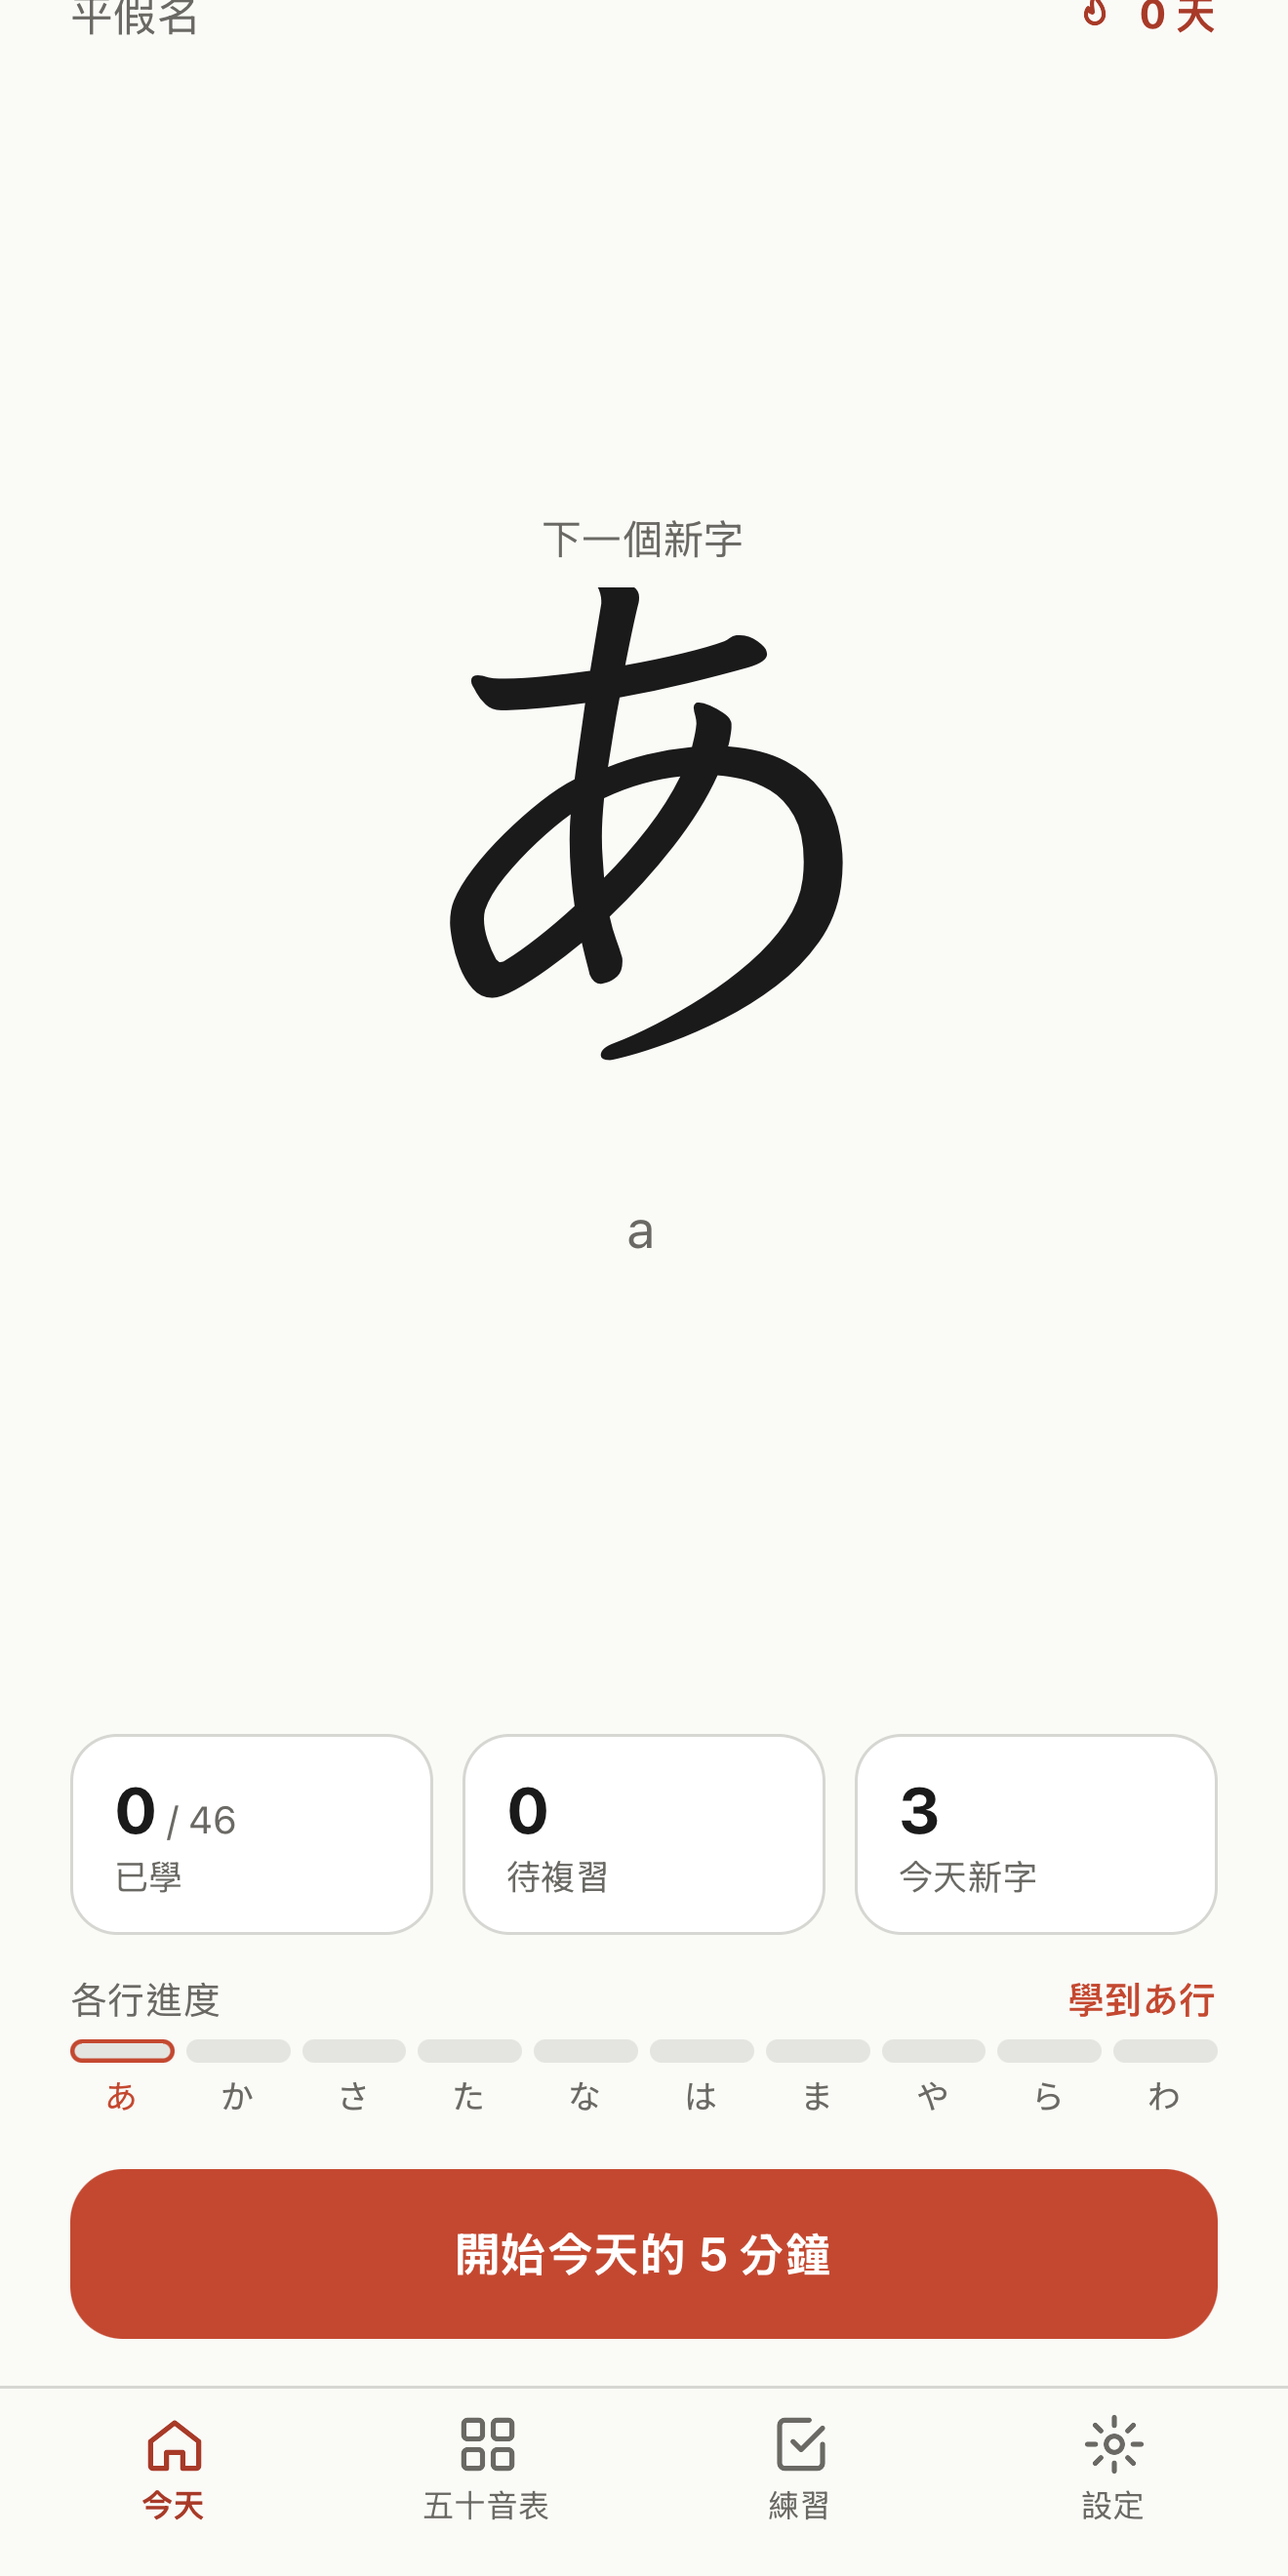
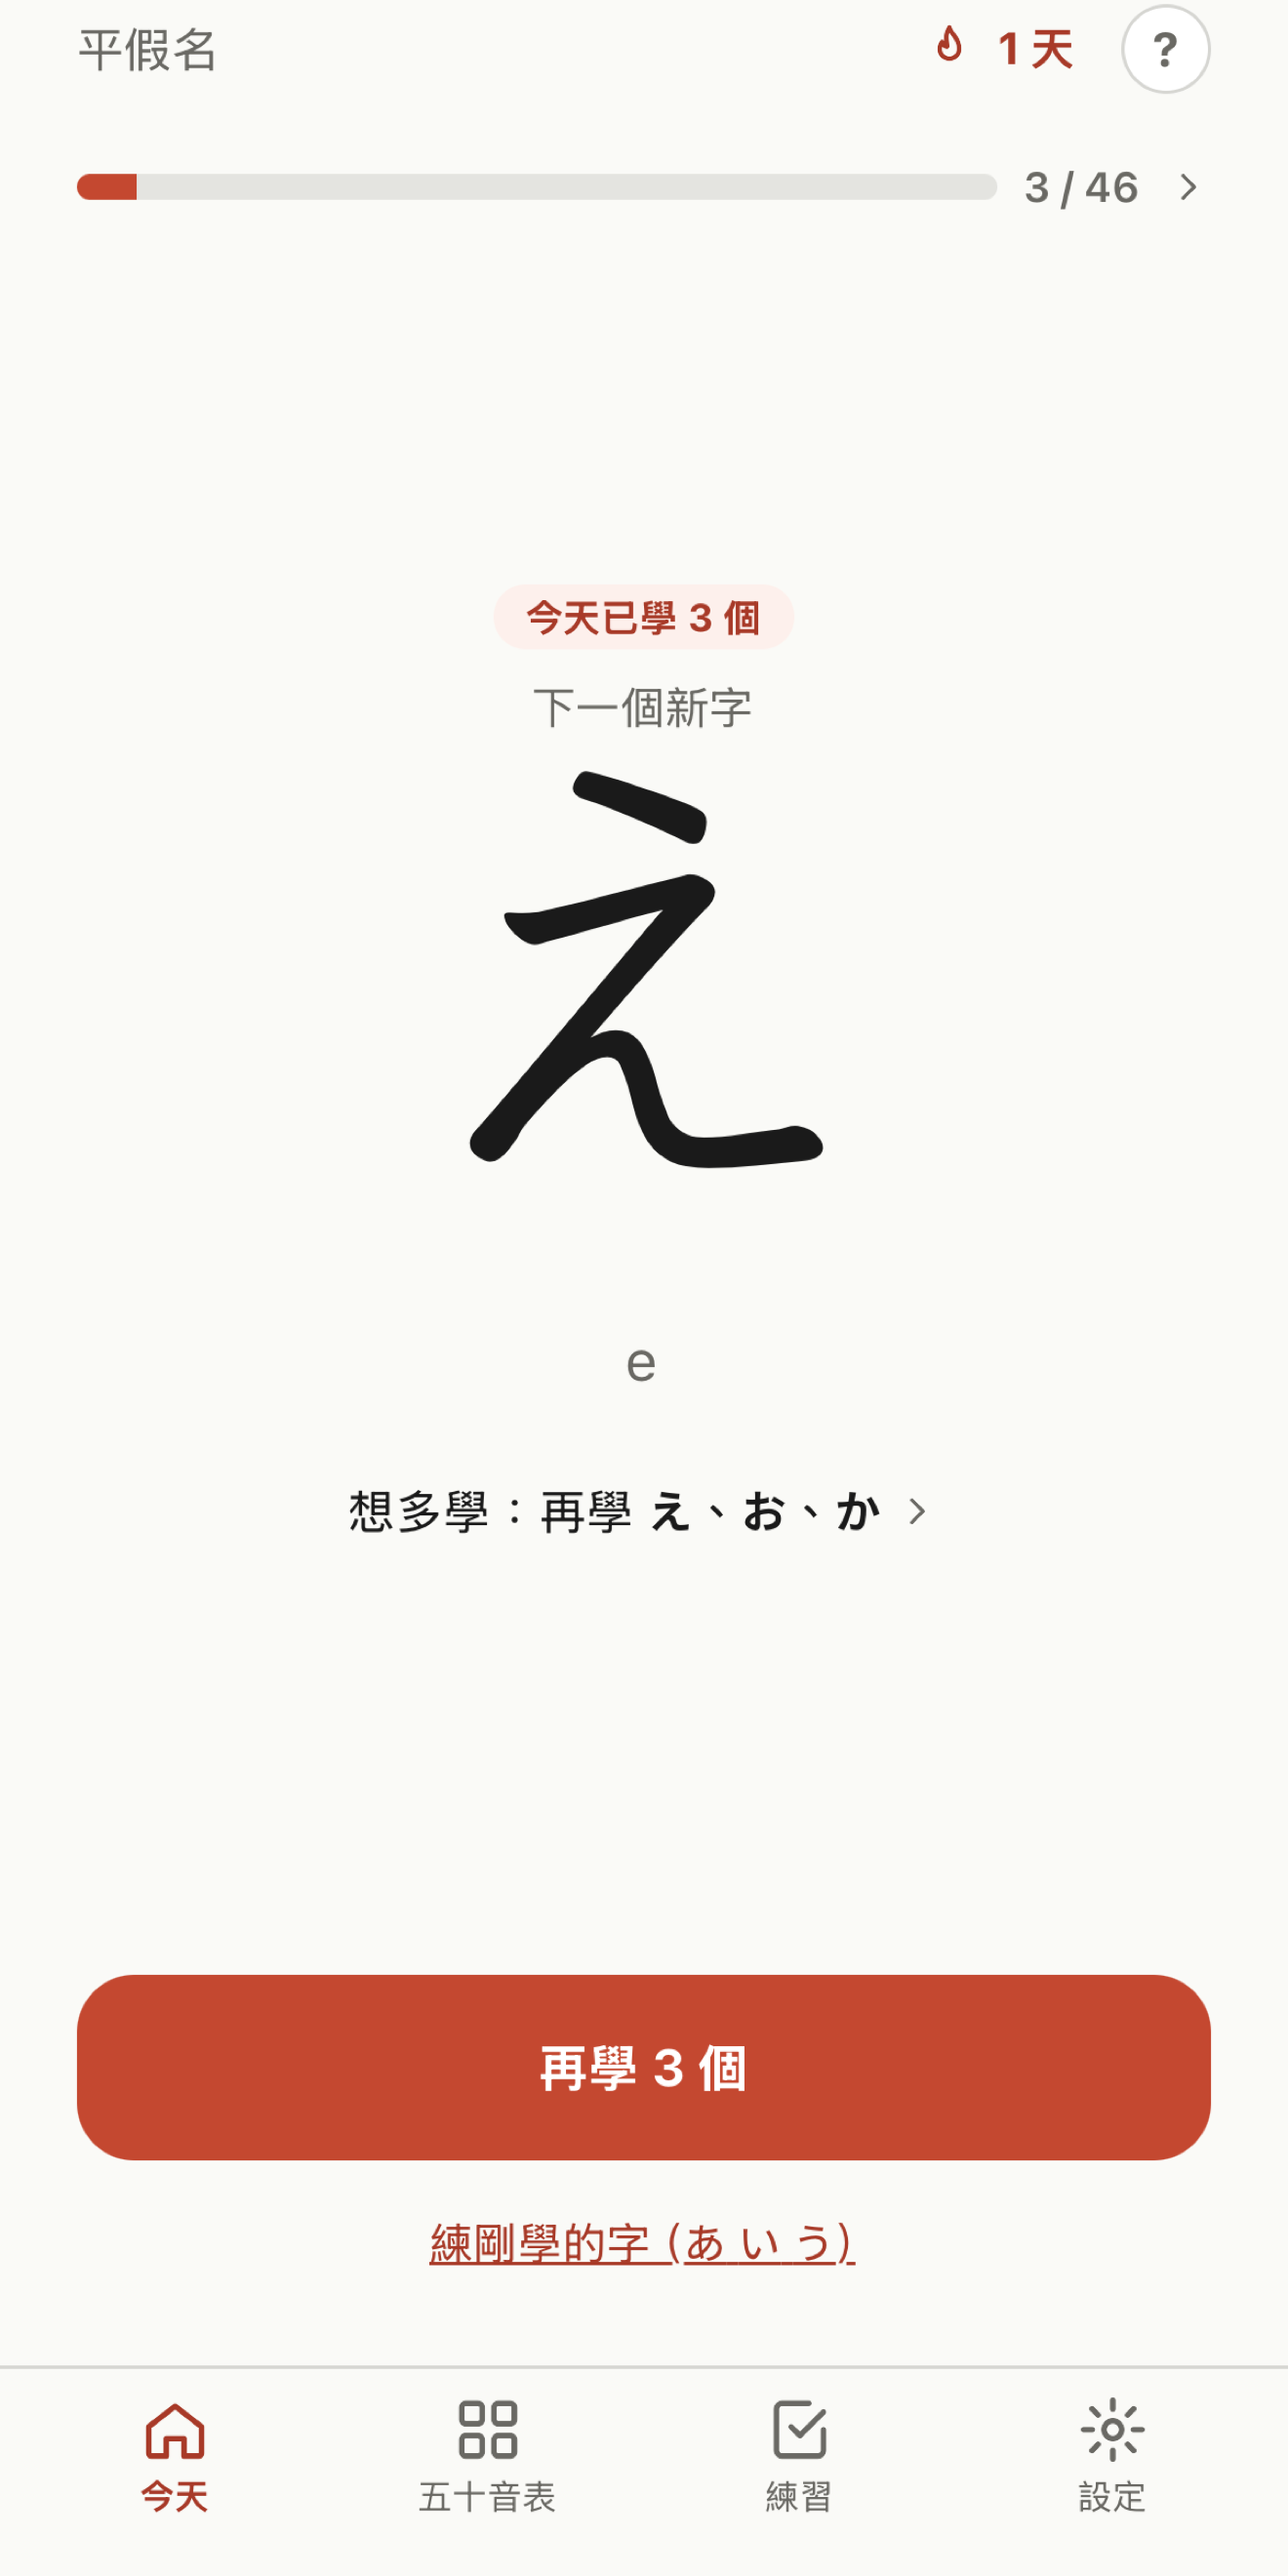
docs: 引導改版截圖（亮暗各 7 張）、商店首頁重拍與新增練習頁

diff --git a/PROGRESS.md b/PROGRESS.md
@@ -592,7 +592,7 @@ LANG=en_US.UTF-8 LC_ALL=en_US.UTF-8 pnpm exec expo run:ios --configuration Relea
 - **沒做（已和使用者確認先不做）**：各入口第一次進入的說明彈窗（每行已有一句說明）。
 - **順手修**：學新字第一頁在 iPhone SE 上大字太大，新手提示氣泡被諧音卡蓋住、點不到；矮螢幕大字縮成 120。
 - **假設**：「剛學的字」以本地時區的「今天」、`learnedAt` 判斷；沒有新字時，「再學 N 個」的 N 取剩餘的新字數（最多 3）。
-- **測試**：新增 `justLearned.test.ts`（9 個）；Maestro 新增 `phase16-guidance.yaml`；因為練習頁入口改變，更新了 `phase2-confuse`、`phase2-special`、`phase3-unlock`、`phase10-affordance`、`phase10-mnemonic`、`phase11`、`phase13`、`phase14`、`phase15`、`phase7-tour` 與截圖流程；`run-small-screen.sh` 加到 16 支。iPhone SE 與 iPhone 17 各 15 支流程全部通過。截圖尚未重拍（待補：首頁、練習頁、幫助頁，亮暗各一）。
+- **測試**：新增 `justLearned.test.ts`（9 個）；Maestro 新增 `phase16-guidance.yaml`；因為練習頁入口改變，更新了 `phase2-confuse`、`phase2-special`、`phase3-unlock`、`phase10-affordance`、`phase10-mnemonic`、`phase11`、`phase13`、`phase14`、`phase15`、`phase7-tour` 與截圖流程；`run-small-screen.sh` 加到 16 支。iPhone SE 與 iPhone 17 各 15 支流程全部通過。截圖已補拍（2026-11-03，iPhone 17，亮暗各 7 張：第一天首頁、練習頁鎖定、結果頁、學完後首頁、練習頁、幫助頁、常見問題展開）在 `screenshots/guidance/`，逐張看過，暗色下沒有元件顏色沒跟著切換。
 
 ## 結果頁引導到練習（2026-11-02）
 
@@ -604,3 +604,8 @@ LANG=en_US.UTF-8 LC_ALL=en_US.UTF-8 pnpm exec expo run:ios --configuration Relea
   - 練剛學的字：「練習完成」；「再練一次這 3 個字」，回 focus 模式。
 - 新增 session 模式 `focus`（`startFocus` 原本記成 `auto`，結果頁分不出來）。
 - Maestro：自動練習、易混淆字、外來語、phase14 的結果頁斷言由「今天完成了」改成「練習完成」；phase16 加驗結果頁的三處文字。iPhone SE 上 phase16、2-auto-practice、14、2-confuse、3-loanword、1-daily-practice 通過；iPhone 17 未重跑（只改結果頁文字與導向）。
+
+## 商店截圖重拍（2026-11-03）
+
+- 首頁改版後商店第 1 張已換新、新增第 9 張練習頁，見 `store/screenshots.md` 末段。流程：`maestro/screenshots/guidance-capture.yaml`、`run-guidance.sh`。
+- 提醒：模擬器用的 Metro 埠 8081 曾被其他專案佔用，App 只連 8081，要先停掉才能拍。
